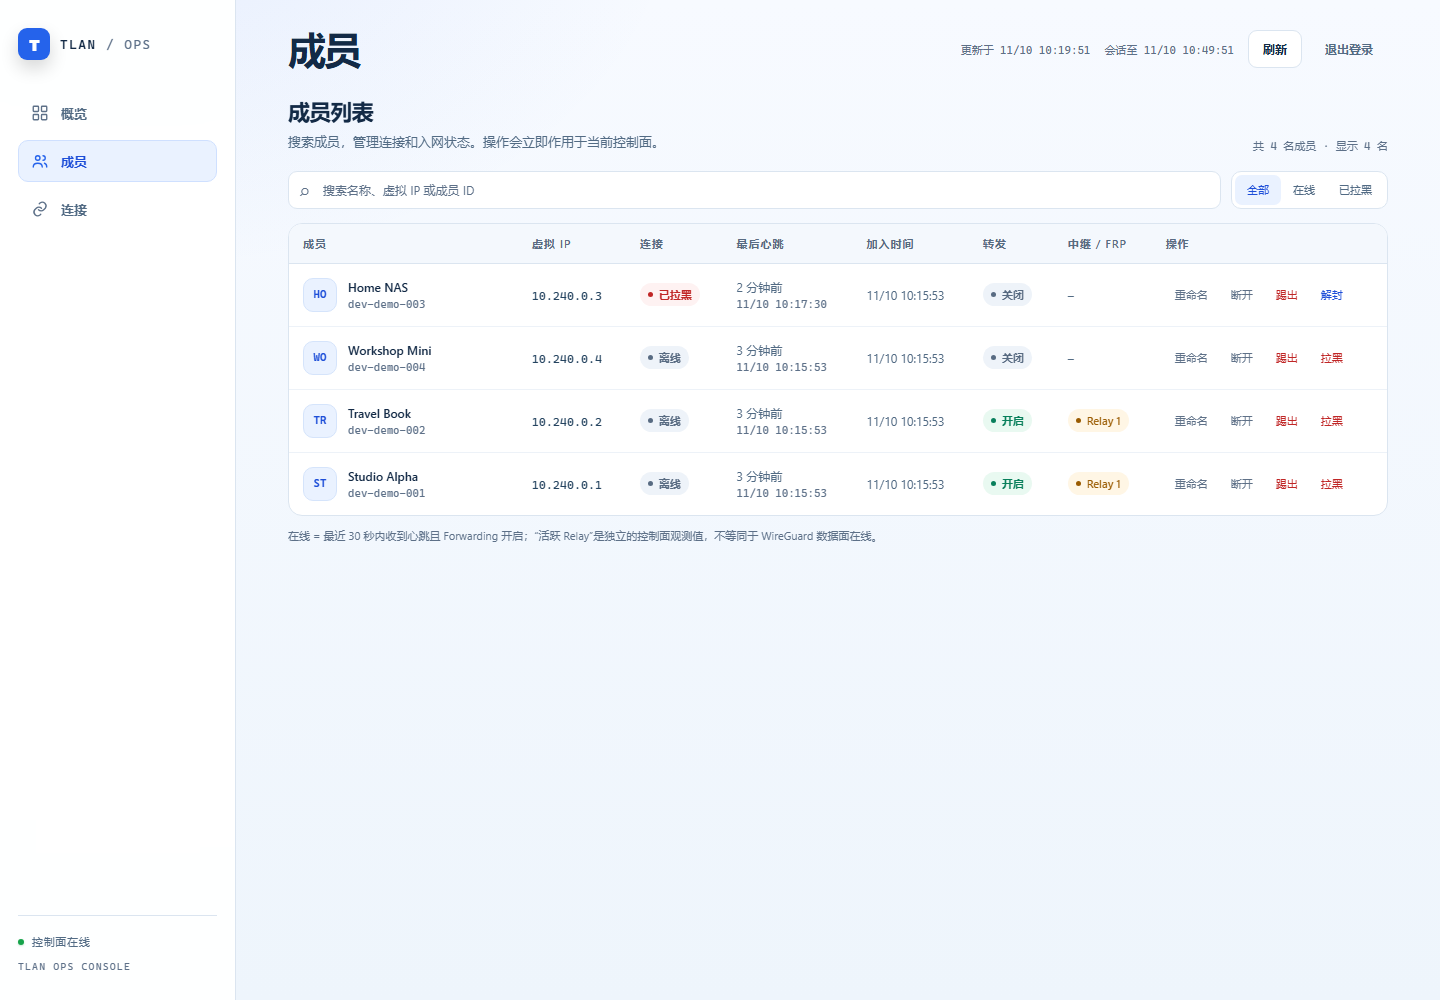
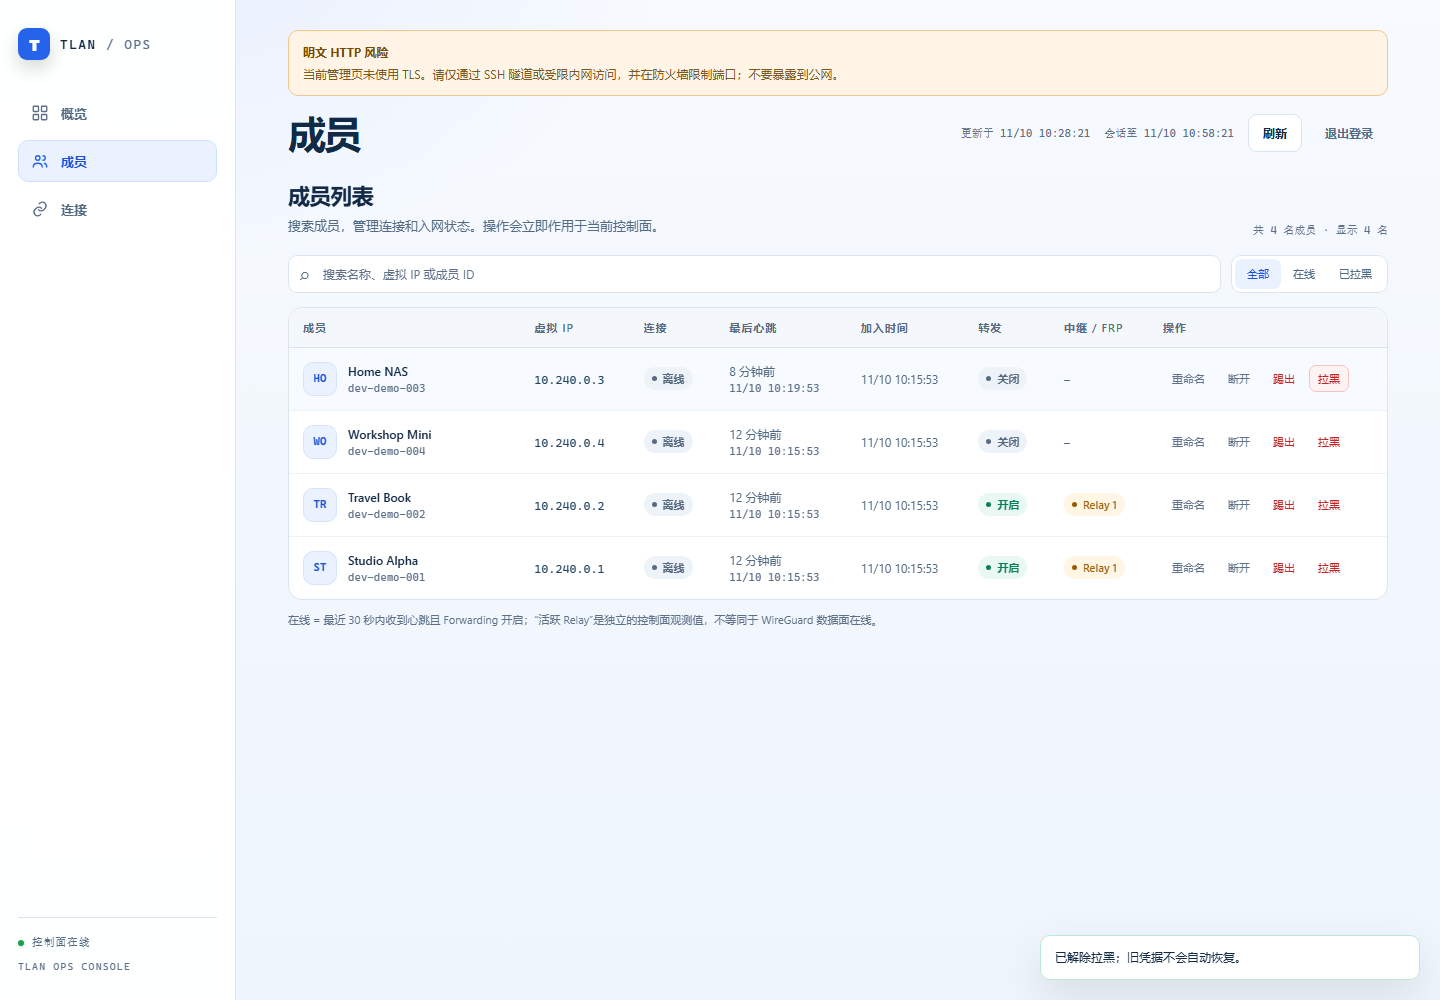
feat(admin): warn on plaintext console access

diff --git a/internal/control/admin_console.html b/internal/control/admin_console.html
@@ -187,6 +187,9 @@ dialog::backdrop { background: rgba(3, 6, 9, .72); backdrop-filter: blur(4px); }
 @keyframes toast-in { from { opacity: 0; transform: translateY(6px); } to { opacity: 1; transform: translateY(0); } }
 .sr-only { position: absolute; width: 1px; height: 1px; padding: 0; margin: -1px; overflow: hidden; clip: rect(0, 0, 0, 0); white-space: nowrap; border: 0; }
 @media (max-width: 980px) { .metrics { grid-template-columns: repeat(2, minmax(0, 1fr)); } .card-grid { grid-template-columns: 1fr; } }
+.insecure-banner { display: flex; flex-direction: column; gap: 3px; margin: 0 0 18px; padding: 12px 14px; border: 1px solid #f2c78a; border-radius: 10px; background: #fff4e5; color: #7a4a00; font-size: 12px; line-height: 1.55; }
+.insecure-banner strong { font-size: 12px; }
+.insecure-banner span { color: #7a5a22; }
 @media (max-width: 760px) {
   .console { display: block; }
   .rail { position: static; height: auto; flex-direction: row; flex-wrap: wrap; align-items: center; gap: 12px; padding: 16px; border-right: 0; border-bottom: 1px solid var(--line); }
@@ -350,6 +353,7 @@ dialog { background: #fff; border-color: var(--line-strong); }
     </div>
   </aside>
   <main class="main">
+__INSECURE_BANNER__
     <header class="topbar">
       <div>
         <h1 id="page-title">概览</h1>

diff --git a/internal/control/admin_login.html b/internal/control/admin_login.html
@@ -235,6 +235,9 @@ dialog { background: #fff; border-color: var(--line-strong); }
 .toast.error { border-color: #f3c4c4; color: #a61b1b; }
 .state-strip { display: flex; flex-wrap: wrap; gap: 8px; margin: 0 0 18px; }
 .state-strip .pill { padding: 6px 10px; }
+.insecure-banner { display: flex; flex-direction: column; gap: 3px; margin: 0 0 18px; padding: 12px 14px; border: 1px solid #f2c78a; border-radius: 10px; background: #fff4e5; color: #7a4a00; font-size: 12px; line-height: 1.55; }
+.insecure-banner strong { font-size: 12px; }
+.insecure-banner span { color: #7a5a22; }
 @media (max-width: 760px) {
   .table-shell table { min-width: 0; }
   .table-shell thead { display: none; }
@@ -249,6 +252,7 @@ dialog { background: #fff; border-color: var(--line-strong); }
 <body>
 <main class="login-shell">
   <section class="login-card" aria-labelledby="login-title">
+__INSECURE_BANNER__
     <div class="brand">
       <span class="brand-mark" aria-hidden="true">T</span>
       <span class="brand-word">TLAN <span>/ OPS</span></span>

diff --git a/internal/control/admin_page.go b/internal/control/admin_page.go
@@ -9,6 +9,9 @@ import (
 )
 
 const adminCSRFPlaceholder = "__CSRF_TOKEN__"
+const adminInsecurePlaceholder = "__INSECURE_BANNER__"
+
+const adminInsecureBanner = `<div class="insecure-banner" role="alert"><strong>明文 HTTP 风险</strong><span>当前管理页未使用 TLS。请仅通过 SSH 隧道或受限内网访问，并在防火墙限制端口；不要暴露到公网。</span></div>`
 
 //go:embed admin_login.html
 var adminLoginPage string
@@ -16,16 +19,22 @@ var adminLoginPage string
 //go:embed admin_console.html
 var adminConsolePage string
 
-func writeAdminPage(w http.ResponseWriter, authenticated bool, csrf string) {
+func writeAdminPage(w http.ResponseWriter, authenticated bool, csrf string, insecure bool) {
 	w.Header().Set("Content-Type", "text/html; charset=utf-8")
 	w.Header().Set("Cache-Control", "no-store")
 	w.Header().Set("X-Content-Type-Options", "nosniff")
 	w.Header().Set("Referrer-Policy", "no-referrer")
 	w.Header().Set("X-Frame-Options", "DENY")
 	w.Header().Set("Content-Security-Policy", "default-src 'self'; style-src 'unsafe-inline'; script-src 'unsafe-inline'; img-src 'self' data:; connect-src 'self'; frame-ancestors 'none'; base-uri 'none'; form-action 'self'")
+	banner := ""
+	if insecure {
+		banner = adminInsecureBanner
+	}
 	if !authenticated {
-		_, _ = io.WriteString(w, adminLoginPage)
+		_, _ = io.WriteString(w, strings.Replace(adminLoginPage, adminInsecurePlaceholder, banner, 1))
 		return
 	}
-	_, _ = io.WriteString(w, strings.Replace(adminConsolePage, adminCSRFPlaceholder, html.EscapeString(csrf), 1))
+	page := strings.Replace(adminConsolePage, adminInsecurePlaceholder, banner, 1)
+	page = strings.Replace(page, adminCSRFPlaceholder, html.EscapeString(csrf), 1)
+	_, _ = io.WriteString(w, page)
 }

diff --git a/internal/control/admin_page_test.go b/internal/control/admin_page_test.go
@@ -3,6 +3,7 @@ package control
 import (
 	"io"
 	"net/http"
+	"net/http/httptest"
 	"strings"
 	"testing"
 )
@@ -37,6 +38,9 @@ func TestAdminPageContainsRequiredUIAndNoSecrets(t *testing.T) {
 	if strings.Contains(loginPage, "https://") || strings.Contains(loginPage, "http://") {
 		t.Fatal("login page contains an external URL")
 	}
+	if !strings.Contains(loginPage, "明文 HTTP 风险") {
+		t.Fatal("plaintext admin page did not show the high-risk warning")
+	}
 
 	client, _ := adminLoginClient(t, server.URL)
 	pageResp, err := client.Get(server.URL + "/admin")
@@ -56,5 +60,12 @@ func TestAdminPageContainsRequiredUIAndNoSecrets(t *testing.T) {
 	}
 	if strings.Contains(page, "https://") || strings.Contains(page, "http://") {
 		t.Fatal("authenticated page contains an external URL")
+	}
+}
+func TestAdminPageSecureModeOmitsInsecureWarning(t *testing.T) {
+	rec := httptest.NewRecorder()
+	writeAdminPage(rec, false, "", false)
+	if strings.Contains(rec.Body.String(), "明文 HTTP 风险") {
+		t.Fatal("secure admin page showed the plaintext warning")
 	}
 }

diff --git a/internal/control/admin.go b/internal/control/admin.go
@@ -97,10 +97,10 @@ func (c *adminConsole) serveHTTP(w http.ResponseWriter, r *http.Request) {
 	case r.URL.Path == "/admin" || r.URL.Path == "/admin/":
 		_, csrf, ok := c.auth.authorize(r)
 		if !ok {
-			writeAdminPage(w, false, "")
+			writeAdminPage(w, false, "", !c.auth.secure)
 			return
 		}
-		writeAdminPage(w, true, csrf)
+		writeAdminPage(w, true, csrf, !c.auth.secure)
 	case r.URL.Path == "/admin/login":
 		c.auth.login(w, r)
 	case r.URL.Path == "/admin/logout":

diff --git a/VALIDATION.md b/VALIDATION.md
@@ -17,10 +17,10 @@
 - 独立 admin listener：默认 `127.0.0.1:8081`，空值禁用；支持 `admin_tls_cert/key`。非回环且未配置 TLS 时必须显式 `admin_allow_insecure_http: true`，否则配置校验拒绝启动；启用后启动日志警告限制内网和防火墙访问。
 - 认证边界：管理 listener 使用独立 handler，不挂载 `/api/v1/*`；登录使用 SHA-256 常量时间比较、按 TCP 对端 IP 的 5 次/15 分钟固定窗口、HttpOnly/SameSite=Strict `tlan_admin` Cookie、服务端哈希会话键、30 分钟滑动过期和最多 8 个会话；服务重启后旧 Cookie 失效。状态变更同时校验 CSRF 和同源 `Origin`，Host 必须匹配配置的 admin 地址或回环别名，不信任 `X-Forwarded-*`。
 - API：所有 `/admin/api/*` 响应使用 `{"ok":...}` 外壳并带 `request_id`；失败使用稳定错误码和不含底层详情的可读消息；新增 `GET /admin/api/session`，返回 CSRF、会话到期时间和服务启动时间。管理操作写入带 request_id、来源 IP、动作、网络/成员 ID 和结果的结构化日志。
-- 页面：内嵌单页，无外部 CDN；白蓝视觉与客户端侧栏一致；概览、成员列表、连接状态三个区域；顶部显示控制面、Relay、Managed FRP 三个独立状态和会话到期时间；成员支持搜索、在线/拉黑筛选、重命名、断开、踢出、拉黑、解封；危险操作确认包含目标名称和成员 ID 后四位；窄屏表格切换为卡片。
+- 页面：内嵌单页，无外部 CDN；明文 HTTP 时登录页和管理页显示高风险横幅；白蓝视觉与客户端侧栏一致；概览、成员列表、连接状态三个区域；顶部显示控制面、Relay、Managed FRP 三个独立状态和会话到期时间；成员支持搜索、在线/拉黑筛选、重命名、断开、踢出、拉黑、解封；危险操作确认包含目标名称和成员 ID 后四位；窄屏表格切换为卡片。
 - 状态一致性：断开/踢出/拉黑先关闭 Relay，再撤销 Managed FRP lease，并设置 Forwarding=false；踢出先撤销成员凭据；拉黑在存储事务中设置 blocked 并撤销凭据。成员列表/候选/认证/心跳过滤 blocked 设备。解封只清除 blocked，不恢复旧凭据。
 - 边界测试：普通成员凭据访问 `/admin/api/*` 返回 401；管理 listener 的 `/api/v1/*`、随机路径、编码穿越路径和静态文件路径返回统一 404；旧 YAML 缺少 `admin_*` 字段时管理页禁用且其他行为不变；端口占用、TLS 证书/私钥不配对和非回环明文未 opt-in 均被明确拒绝。
[2 lines of base64/hex data omitted]
 - 真实浏览器验收：Windows 服务端启动 smoke 后，用 Playwright + Chrome 完成登录、概览、成员、拉黑/解封、连接和 390px 移动端截图；浏览器无 console/page error，页面未出现 `Tmkmaj233`。截图见 `docs/screenshots/admin-login-2026-11-10.png`、`admin-overview-2026-11-10.png`、`admin-members-2026-11-10.png`、`admin-members-blocked-2026-11-10.png`、`admin-connections-2026-11-10.png` 和 `admin-members-mobile-2026-11-10.png`。
 - 未在本机执行的验收：当前环境没有可用 WSL distro，Linux 运行时启动 smoke 未执行；发布前仍应在目标 Debian/CentOS 主机运行安装器 `--check` 和实际启动。管理事件只写结构化服务日志，未提供浏览器事件查询；管理页不支持反向代理；拉黑不能阻止删除本地身份后的重新入网；连接页不是 WireGuard 数据面完整遥测。
 
